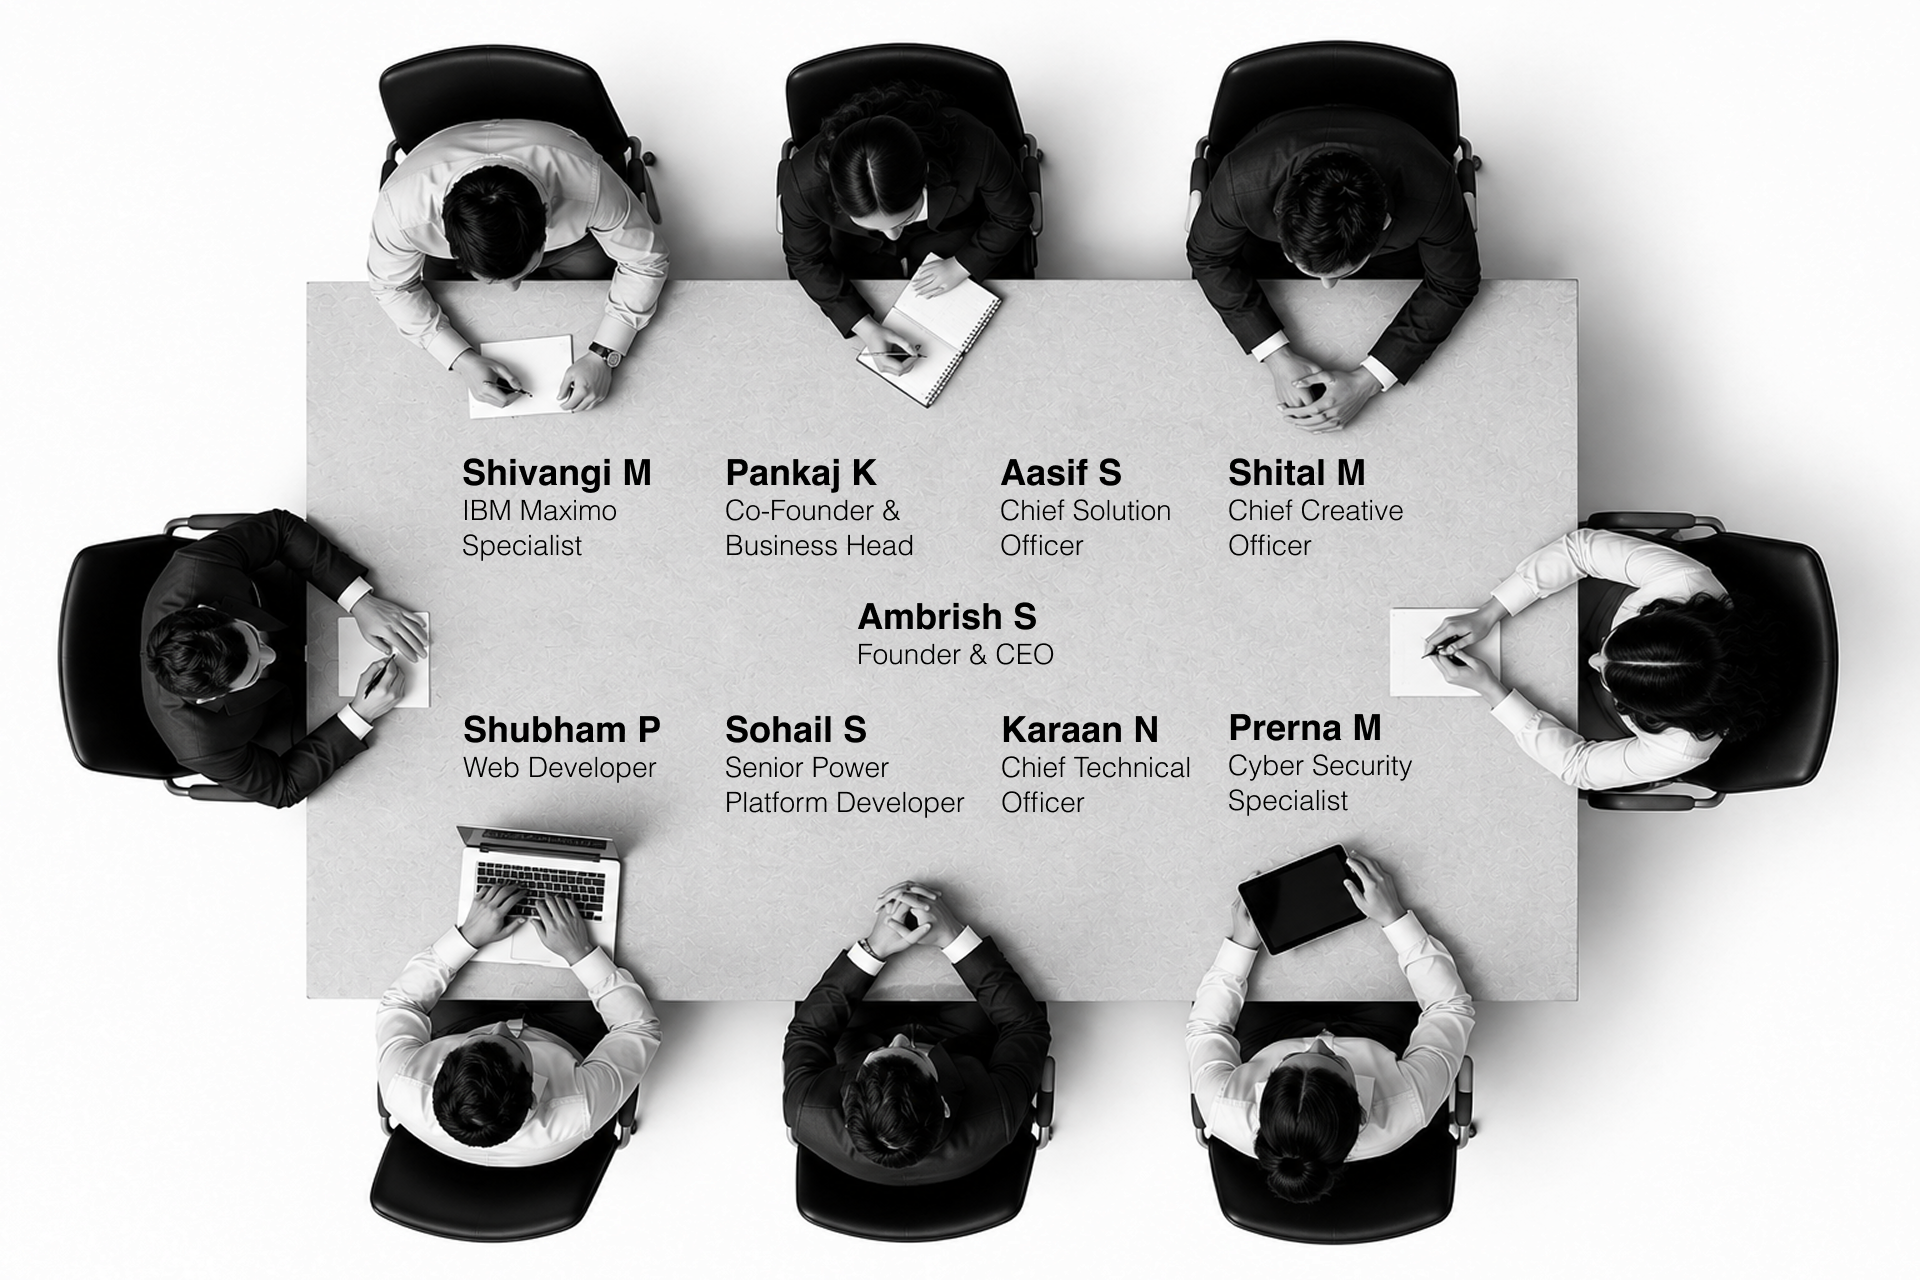
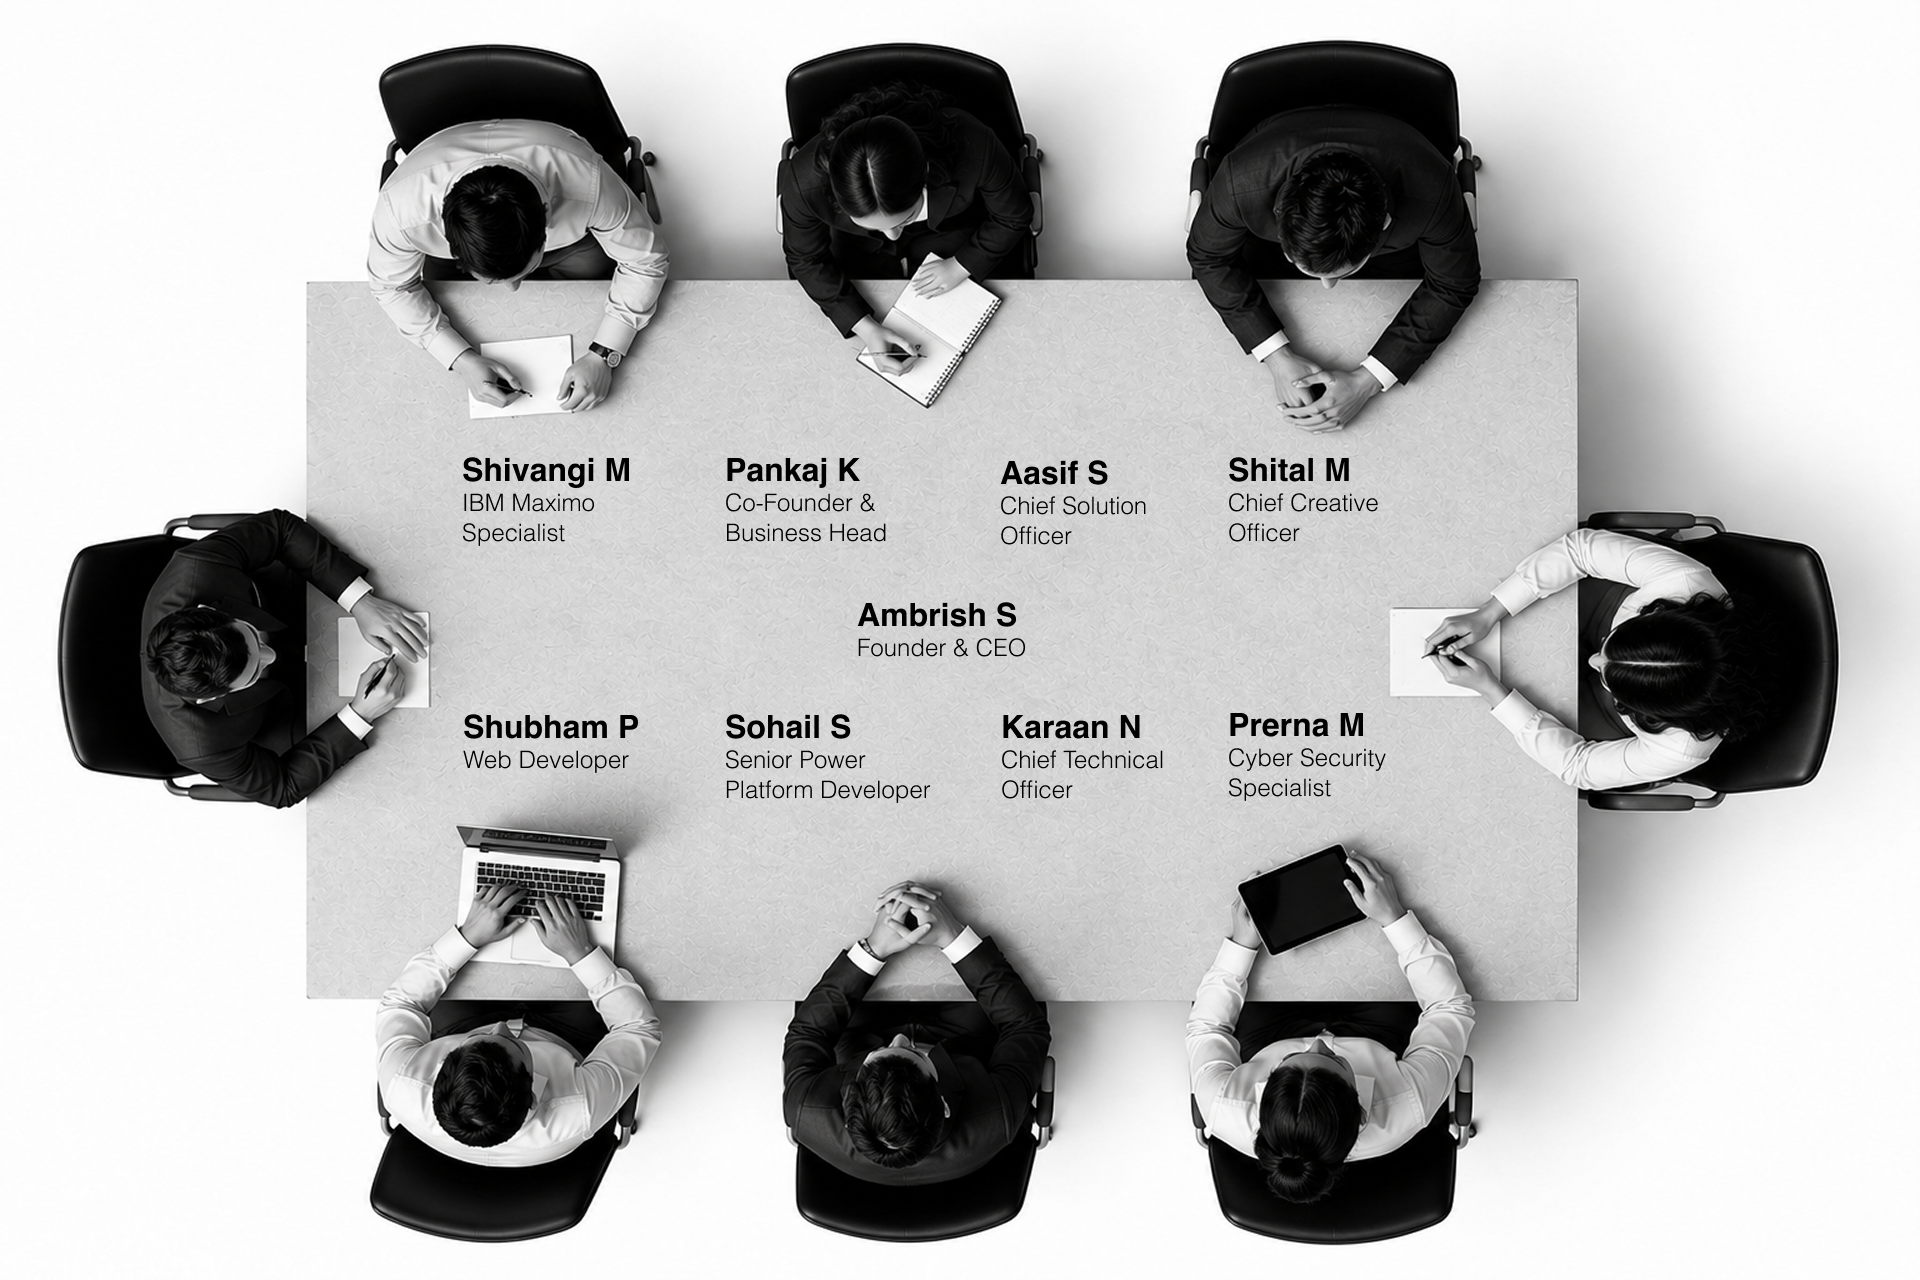
changes

diff --git a/index.html b/index.html
@@ -35,7 +35,8 @@
       <!-- <img src="/assets/logo/cevolve-logo-vertical-new.png" alt="Cevolve Technologies"
         style="height: 44px; width: auto" /> -->
       <picture>
-        <source media="(max-width:768px)" srcset="/assets/logo/cevolve-logo-vertical-new.png" />
+        <!-- https://7oroof.com/demos/logisti/assets/images/logo/logo-dark.png -->
+        <source media="(max-width:768px)" srcset="/assets/logo/cevolve-logo-horizontal-new1.png" />
 
         <img style="height: 44px; width: auto" src="/assets/logo/cevolve-logo-horizontal.png"
           alt="CEVOLVE TECHNOLOGIES" />
@@ -45,7 +46,7 @@
     <a href="#home" class="logo">
       <picture>
         <source media="(max-width: 767px)" srcset="assets/logo/cevolve-logo-vertical.png" />
-        <img src="assets/logo/cevolve-logo-horizontal-new.png" alt="Cevolve Technologies" class="logo-img"
+        <img src="assets/logo/cevolve-logo-horizontal-new1.png" alt="Cevolve Technologies" class="logo-img"
           onerror="this.style.display='none'" />
       </picture>
     </a>
@@ -426,65 +427,6 @@
   </section>
 
   <!-- ── PROCESS ── -->
-  <section class="section old d-none" id="process1">
-    <div class="process-intro reveal">
-      <div class="section-label">How We Work</div>
-      <h2 class="section-title">Our <span>Proven Process</span></h2>
-      <p class="section-sub">
-        A structured, transparent approach designed to minimize risk and
-        maximize business value at every stage.
-      </p>
-    </div>
-    <div class="steps-grid">
-      <div class="step reveal reveal-delay-1">
-        <div class="step-icon">
-          <img src="assets/svg/process-discover.svg" alt="" onerror="this.parentElement.textContent = '🔍'" />
-        </div>
-        <div class="step-num">1</div>
-        <h5>Discover</h5>
-        <p>
-          Deep-dive workshops to understand your processes, pain points and
-          strategic goals.
-        </p>
-      </div>
-      <div class="step reveal reveal-delay-2">
-        <div class="step-icon">
-          <img src="assets/svg/process-design.svg" alt="" onerror="this.parentElement.textContent = '✏'" />
-        </div>
-        <div class="step-num">2</div>
-        <h5>Design</h5>
-        <p>
-          Solution architecture, gap analysis, data mapping and a clear
-          implementation roadmap.
-        </p>
-      </div>
-      <div class="step reveal reveal-delay-3">
-        <div class="step-icon">
-          <img src="assets/svg/process-build.svg" alt="" onerror="this.parentElement.textContent = '⟨⟩'" />
-        </div>
-        <div class="step-num">3</div>
-        <h5>Build</h5>
-        <p>
-          Agile sprints with regular demos, feedback loops and continuous
-          stakeholder alignment.
-        </p>
-      </div>
-      <div class="step reveal reveal-delay-4">
-        <div class="step-icon">
-          <img src="assets/svg/process-deploy.svg" alt="" onerror="this.parentElement.textContent = '🚀'" />
-        </div>
-        <div class="step-num">4</div>
-        <h5>Deploy</h5>
-        <p>
-          Controlled go-live with user training, hypercare support and success
-          metrics tracking.
-        </p>
-      </div>
-    </div>
-  </section>
-
-  <!-- new process -->
-
   <section class="section" id="process">
     <div class="process-intro reveal">
       <div class="section-label">How We Work</div>
@@ -497,7 +439,7 @@
     <div class="steps-grid">
       <div class="step reveal reveal-delay-1">
         <div class="step-icon">
-          <img src="assets/svg/process-discover.svg" alt="" onerror="this.parentElement.textContent = '🔍'" />
+          <img src="assets/svg/process-discover1.svg" alt="" onerror="this.parentElement.textContent = '🔍'" />
         </div>
         <div class="step-num">1</div>
         <h5>Discover &amp; Align</h5>
@@ -508,7 +450,7 @@
       </div>
       <div class="step reveal reveal-delay-2">
         <div class="step-icon">
-          <img src="assets/svg/process-design.svg" alt="" onerror="this.parentElement.textContent = '📋'" />
+          <img src="assets/svg/process-design1.svg" alt="" onerror="this.parentElement.textContent = '📋'" />
         </div>
         <div class="step-num">2</div>
         <h5>Plan &amp; Prioritize</h5>
@@ -518,7 +460,7 @@
       </div>
       <div class="step reveal reveal-delay-3">
         <div class="step-icon">
-          <img src="assets/svg/process-build.svg" alt="" onerror="this.parentElement.textContent = '⟨⟩'" />
+          <img src="assets/svg/process-build1.svg" alt="" onerror="this.parentElement.textContent = '⟨⟩'" />
         </div>
         <div class="step-num">3</div>
         <h5>Deliver in Sprints</h5>
@@ -529,7 +471,7 @@
       </div>
       <div class="step reveal reveal-delay-4">
         <div class="step-icon">
-          <img src="assets/svg/process-deploy.svg" alt="" onerror="this.parentElement.textContent = '🚀'" />
+          <img src="assets/svg/process-deploy1.svg" alt="" onerror="this.parentElement.textContent = '🚀'" />
         </div>
         <div class="step-num">4</div>
         <h5>Release &amp; Evolve</h5>
@@ -542,7 +484,7 @@
 
   <!-- ── OUR CLIENTS ── -->
   <!-- Drop real client logo files into assets/clients/ named client-01.png ... client-12.png (transparent PNG or SVG, ~300x120px canvas).
-         Any slot without a matching file falls back to a "Client Logo" placeholder, so it's safe to add them one at a time. -->
+         Any slot  without a matching file falls back to a "Client Logo" placeholder, so it's safe to add them one at a time. -->
   <section id="clients">
     <div class="clients-intro reveal">
       <div class="section-label">Trusted By</div>
@@ -1201,24 +1143,24 @@
         </p>
 
         <div class="footer-social">
-          <a href="https://www.linkedin.com/company/cevolve-technologies" class="s-linkedin" target="_blank"
+          <a href="https://www.linkedin.com/company/cevolvetech" class="s-linkedin" target="_blank"
             rel="noopener" aria-label="LinkedIn">
             <i class="bi bi-linkedin"></i>
           </a>
-          <a href="https://www.instagram.com/cevolvetechnologies" class="s-instagram" target="_blank" rel="noopener"
+          <a href="https://www.instagram.com/cevolvetech/?hl=en" class="s-instagram" target="_blank" rel="noopener"
             aria-label="Instagram">
             <i class="bi bi-instagram"></i>
           </a>
-          <a href="https://www.facebook.com/cevolvetechnologies" class="s-facebook" target="_blank" rel="noopener"
+          <!-- <a href="https://www.facebook.com/cevolvetechnologies" class="s-facebook" target="_blank" rel="noopener"
             aria-label="Facebook">
             <i class="bi bi-facebook"></i>
-          </a>
+          </a> -->
           <a href="https://x.com/cevolvetech" class="s-x" target="_blank" rel="noopener" aria-label="X">
             <i class="bi bi-twitter-x"></i>
           </a>
-          <a href="https://wa.me/919819133331" class="s-whatsapp" target="_blank" rel="noopener" aria-label="WhatsApp">
+          <!-- <a href="https://wa.me/919819133331" class="s-whatsapp" target="_blank" rel="noopener" aria-label="WhatsApp">
             <i class="bi bi-whatsapp"></i>
-          </a>
+          </a> -->
         </div>
       </div>
       <div class="footer-col">
@@ -1244,7 +1186,7 @@
     <div class="footer-bottom">
       <p>© 2026 Cevolve Technologies. All Rights Reserved.</p>
       <div class="ms-badge">
-        <span>⭐</span>
+        <span><i class="bi bi-star-fill"></i></span>
         <span> Professional & Trust-Focused</span>
       </div>
     </div>

diff --git a/styles.css b/styles.css
@@ -1161,7 +1161,7 @@ section.section {
 }
 
 .form-group textarea {
-    resize: vertical;
+    resize: none;
     min-height: 110px;
 }
 
@@ -2078,6 +2078,8 @@ span {
 }
 
 .step-icon {
+    /* padding added cause icon sizes are not correct */
+    padding: 16px;
     width: 52px;
     height: 52px;
     background: #fff;
@@ -3323,7 +3325,7 @@ nav a:not(.nav-cta):hover::after {
 
 /* DESKTOP — horizontal logo */
 .logo-img {
-    height: 65px;
+    height: 45px;
     /* controls the size; width auto-keeps ratio */
     width: auto;
     max-width: 200px;
@@ -4003,7 +4005,7 @@ nav a:not(.nav-cta):hover::after {
 @media (max-width: 1100px) {
     .offices-layout {
         grid-template-columns: 1fr;
-        gap: 44px;
+        gap: 40px;
     }
 }
 
@@ -4316,7 +4318,7 @@ html {
     align-items: center;
     gap: 30px;
     width: max-content;
-    animation: 30s linear infinite marquee;
+    animation: 20s linear infinite marquee;
     will-change: transform;
 }
 
@@ -4391,7 +4393,7 @@ html {
 @media (max-width: 767px) {
     .clients-track {
         gap: 20px;
-        animation-duration: 22s;
+        animation-duration: 20s;
     }
 
     .clients-track .client-logo {
@@ -4789,7 +4791,7 @@ html {
 @media (max-width: 1100px) {
     .offices-layout {
         grid-template-columns: 1fr;
-        gap: 44px;
+        gap: 40px;
     }
 }
 
@@ -4874,7 +4876,7 @@ html {
 /* form column now the wider of the two, as on the home page */
 .offices-layout {
     grid-template-columns: 1fr 1.12fr;
-    gap: 44px;
+    gap: 40px;
 }
 
 .contact-page .contact-form {
@@ -4882,7 +4884,7 @@ html {
 }
 
 .office-list {
-    gap: 20px;
+    gap:16px;
 }
 
 /* ---- office card: tag becomes a tucked corner ribbon ---- */
@@ -4967,4 +4969,56 @@ html {
     .office-country {
         padding-right: 92px;
     }
+}
+
+
+
+/* =====================================================================
+   APPEND-LAST · PROCESS ICONS — bare SVG inside the existing circle
+   ===================================================================== */
+
+.step-icon {
+    width: 52px;
+    height: 52px;
+    background: #fff;
+    border: 1px solid #eef3fa;
+    border-radius: 50%;
+    display: flex;
+    align-items: center;
+    justify-content: center;
+    margin: 0 auto 20px;
+    position: relative;
+    z-index: 2;
+    /* softer than the old 0.35 — the ring is drawn here now, not in the PNG */
+    box-shadow:
+        0 8px 20px rgba(3, 97, 235, .14),
+        0 2px 6px rgba(1, 20, 56, .05);
+    transition: box-shadow .3s ease;
+}
+
+/* the icon no longer fills the box — a fixed size keeps it razor sharp.
+   `max-width: none` is required: the global `img { max-width:100% }`
+   reset would otherwise fight the fixed height and squash it. */
+.step-icon img {
+    width: 24px;
+    height: 24px;
+    max-width: none;
+    object-fit: contain;
+    display: block;
+}
+
+.step:hover .step-icon {
+    box-shadow:
+        0 14px 28px rgba(3, 97, 235, .2),
+        0 2px 6px rgba(1, 20, 56, .06);
+}
+
+/* connector line through the circle's centre: .step padding-top 24 + 26 */
+.steps-grid::before {
+    top: 50px;
+}
+
+
+#home {
+    scroll-margin-top: 88px;
 }

diff --git a/contact-us.html b/contact-us.html
@@ -29,10 +29,10 @@
 <body class="contact-page">
   <!-- ── HEADER (same markup as index.html) ── -->
   <header>
-    <a href="index.html#home" class="logo">
+   <a href="index.html#home" class="logo">
       <picture>
         <source media="(max-width: 767px)" srcset="assets/logo/cevolve-logo-vertical.png" />
-        <img src="assets/logo/cevolve-logo-horizontal-new.png" alt="Cevolve Technologies" class="logo-img"
+        <img src="assets/logo/cevolve-logo-horizontal-new1.png" alt="Cevolve Technologies" class="logo-img"
           onerror="this.style.display='none'" />
       </picture>
     </a>
@@ -150,8 +150,9 @@
   <footer>
     <div class="footer-grid">
       <div class="footer-brand">
-        <img src="assets/logo/cevolve-logo-horizontal-new.png" alt="Cevolve Technologies"
-          style="height: 44px; width: auto" />
+        <div class="logo-wrap">
+          <img src="assets/logo/cv-logo-white-hor.png" alt="Cevolve Technologies" style="height: 44px; width: auto" />
+        </div>
         <p>
           Specialized Microsoft Dynamics 365 and Power Platform partner
           helping mid-market organizations evolve through technology.
@@ -159,24 +160,24 @@
 
         <!-- swap these hrefs for the real handles -->
         <div class="footer-social">
-          <a href="https://www.linkedin.com/company/cevolve-technologies" class="s-linkedin" target="_blank"
+          <a href="https://www.linkedin.com/company/cevolvetech" class="s-linkedin" target="_blank"
             rel="noopener" aria-label="LinkedIn">
             <i class="bi bi-linkedin"></i>
           </a>
-          <a href="https://www.instagram.com/cevolvetechnologies" class="s-instagram" target="_blank" rel="noopener"
+          <a href="https://www.instagram.com/cevolvetech/?hl=en" class="s-instagram" target="_blank" rel="noopener"
             aria-label="Instagram">
             <i class="bi bi-instagram"></i>
           </a>
-          <a href="https://www.facebook.com/cevolvetechnologies" class="s-facebook" target="_blank" rel="noopener"
+          <!-- <a href="https://www.facebook.com/cevolvetechnologies" class="s-facebook" target="_blank" rel="noopener"
             aria-label="Facebook">
             <i class="bi bi-facebook"></i>
-          </a>
+          </a> -->
           <a href="https://x.com/cevolvetech" class="s-x" target="_blank" rel="noopener" aria-label="X">
             <i class="bi bi-twitter-x"></i>
           </a>
-          <a href="https://wa.me/919819133331" class="s-whatsapp" target="_blank" rel="noopener" aria-label="WhatsApp">
+          <!-- <a href="https://wa.me/919819133331" class="s-whatsapp" target="_blank" rel="noopener" aria-label="WhatsApp">
             <i class="bi bi-whatsapp"></i>
-          </a>
+          </a> -->
         </div>
       </div>
       <div class="footer-col">
